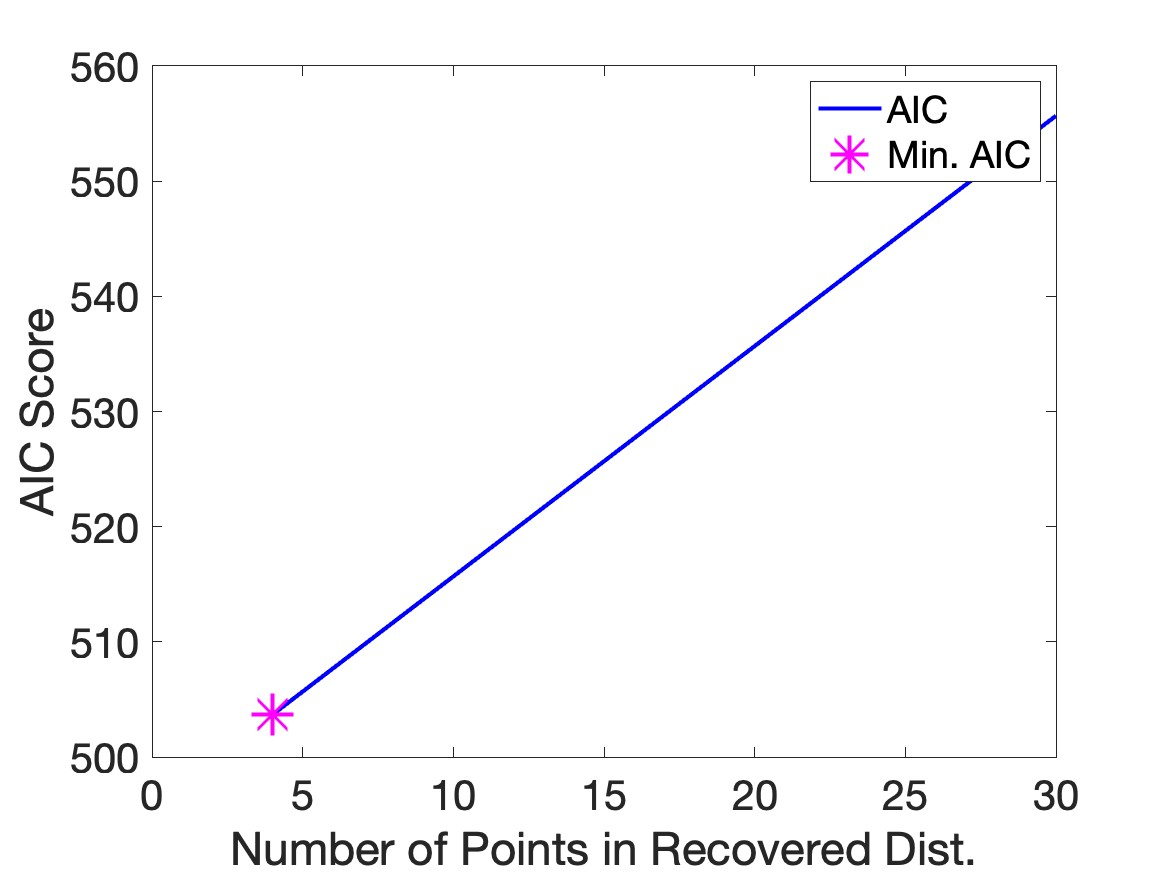
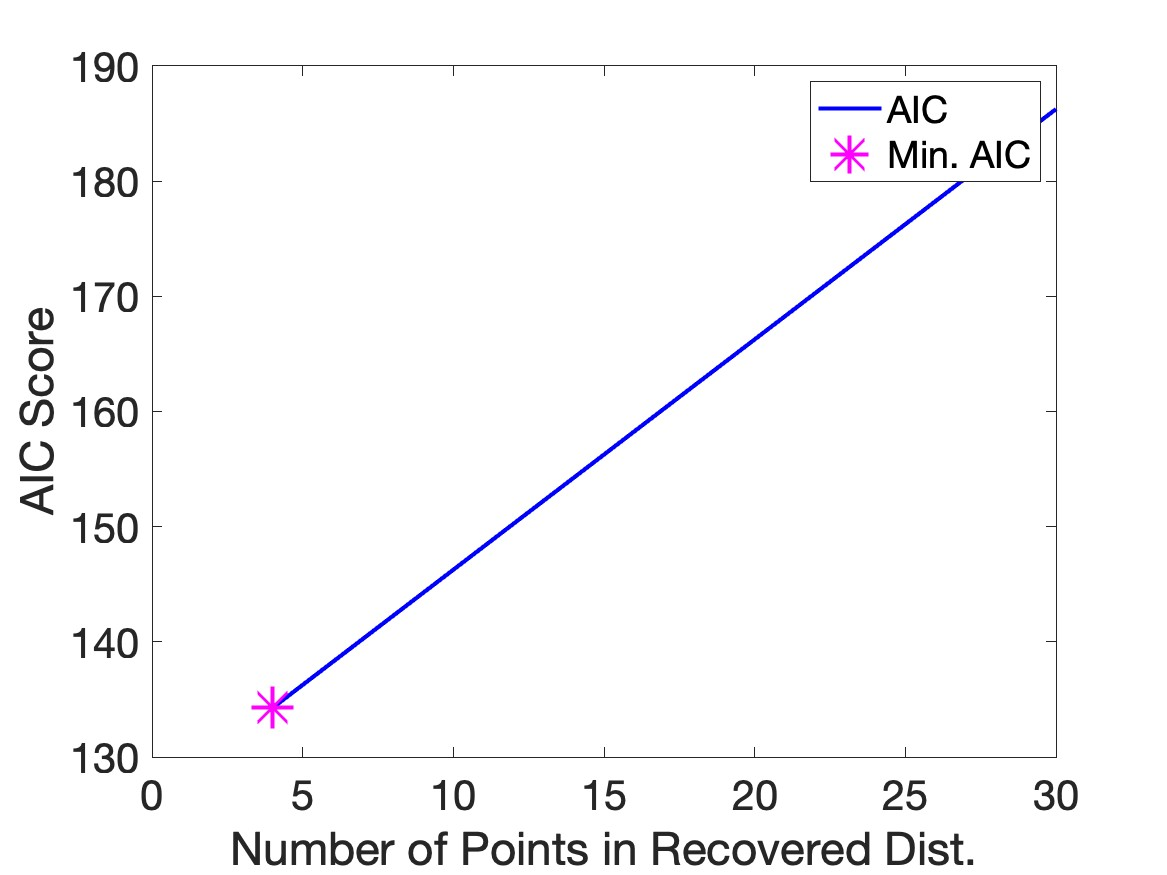
Updating files (still issue w normalizing cts dists))

diff --git a/GLSInverseScriptNPaper.m b/GLSInverseScriptNPaper.m
@@ -2,13 +2,13 @@
 clc
 clear all
 points=101; %this used to be 50
-disttype = ['Uniform'];
+disttype = ['Normal'];
 % rho=1; %make these inputs 
 % k=1.5; %maximal death rate due to treatment %bigger than rho
 % y0=.2; %note c is normalized so needs to start between 0 and 1
 tfinal=10;
-tpoints=25; %typically 100 for paper
-noisesize=0.0; %keep it w 0 noise for now
+tpoints=100; %typically 100 for paper
+noisesize=0.02; %keep it w 0 noise for now
 tspan=linspace(0,tfinal,tpoints);
 rpoints = 12; 
 pointsstr=string(points);
@@ -43,15 +43,22 @@ sgrid=linspace(a,b,points);
 %propdata= weightedsol.*(1+noisesize*rand(size(weightedsol))); 
 %propdata=weightedsol.*(1 + noisesize*(-1 + (2).*rand(size(weightedsol))));
 propdata=weightedsol.*(1 + noisesize*randn(size(weightedsol)));
+
+figure
+plot(t,propdata)
+
 % figure
 % plot(tspan,weightedsol)
 % hold on
 % plot(tspan,propdata,'*')
 % keyboard
-
+%%
 %[gls_optpar,converge_flag,AIC_GLS,sgrid,sprobs,weightedsol,rsgrid]=GLSInverseFnN(points,disttype,rho,k,y0,tfinal,tpoints,noisesize,rpoints)
 [gls_optpar,converge_flag,AIC_GLS,sgrid,sprobs,weightedsol,rsgrid]=GLSInverseFnN(points,disttype,rho,k,y0,tfinal,tpoints,noisesize,rpoints,propdata)
 
+figure
+plot(t,weightedsol)
+%%
 
 %copied from OLSInverseScript
 rpointsvec=4:1:30;

diff --git a/DistFn.m b/DistFn.m
@@ -3,9 +3,6 @@ function [sprobs] = DistFn(disttype,sgrid,a,b)
 %FUTURE UPDATE: do "BigaussianLow" and "BigaussianHigh" for two
 %different bigaussian dists
 
-%sample comment 
-sample = 2+2;
-
 if string(disttype) == 'Normal'
     mu = .5; 
     sigma = .09;
